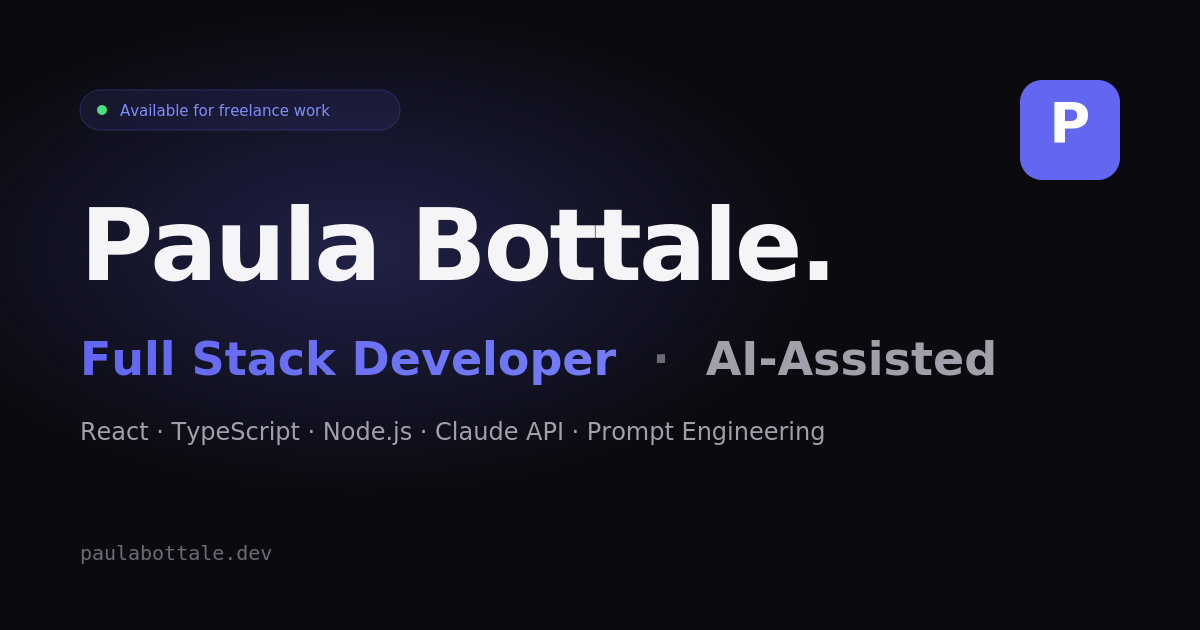
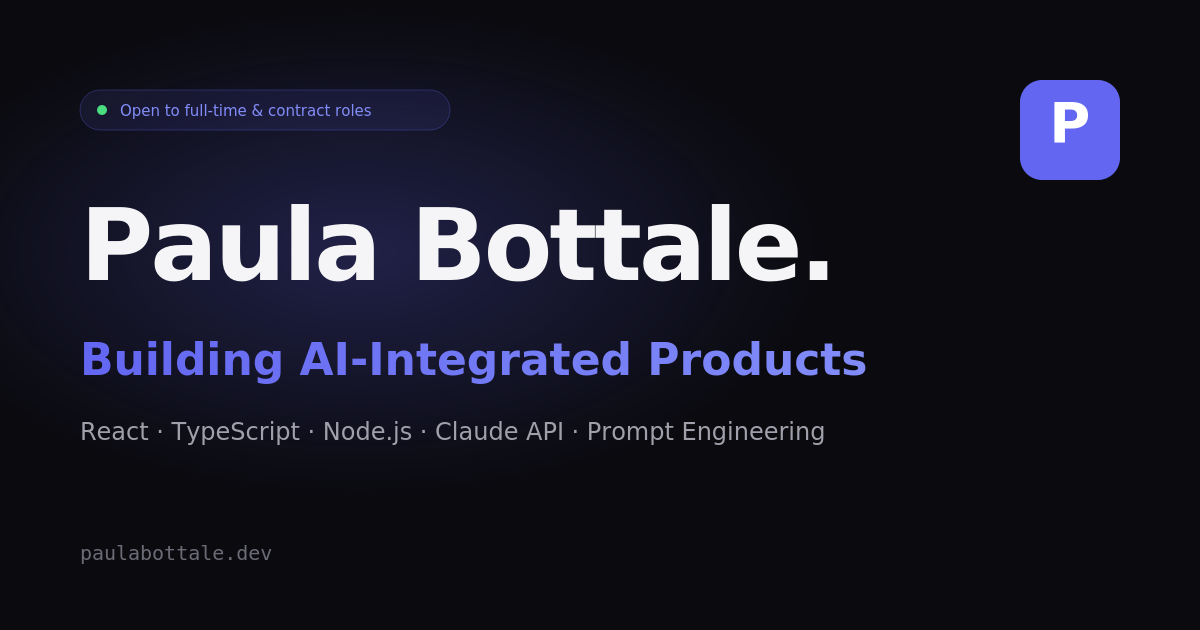
feat: rebrand portfolio

Changed region(s): [[0.0617, 0.5429, 0.8325, 0.6032], [0.0925, 0.1508, 0.3083, 0.181]]

diff --git a/index.html b/index.html
@@ -5,11 +5,11 @@
     <link rel="icon" type="image/svg+xml" href="/favicon.svg" />
     <meta name="viewport" content="width=device-width, initial-scale=1.0" />
  
-    <title>Paula Bottale — Full Stack Developer | AI-Assisted</title>
-    <meta name="title" content="Paula Bottale — Full Stack Developer | AI-Assisted" />
+    <title>Paula Bottale — Full Stack Developer | Building AI Integrated Products</title>
+    <meta name="title" content="Paula Bottale — Full Stack Developer | Building AI Integrated Products" />
     <meta
       name="description"
-      content="Full Stack Developer specializing in React, TypeScript, Node.js, and LLM integration with the Claude API. Available for freelance work and full-time roles."
+      content="Full Stack Developer specializing in React, TypeScript, Node.js, and LLM integration with the Claude API. Open to full-time & contract roles."
     />
     <meta name="author" content="Paula Bottale" />
     <meta
@@ -23,11 +23,11 @@
     <meta property="og:url" content="https://paulabottale-portfolio.vercel.app/" />
     <meta
       property="og:title"
-      content="Paula Bottale — Full Stack Developer | AI-Assisted"
+      content="Paula Bottale — Full Stack Developer | Building AI Integrated Products"
     />
     <meta
       property="og:description"
-      content="Full Stack Developer specializing in React, TypeScript, Node.js, and LLM integration with the Claude API. Available for freelance work and full-time roles."
+      content="Full Stack Developer specializing in React, TypeScript, Node.js, and LLM integration with the Claude API. Open to full-time & contract roles."
     />
 
     <meta property="og:image" content="https://paulabottale-portfolio.vercel.app/og-image.png" />
@@ -39,11 +39,11 @@
     <meta property="twitter:url" content="https://paulabottale-portfolio.vercel.app/" />
     <meta
       property="twitter:title"
-      content="Paula Bottale — Full Stack Developer | AI-Assisted"
+      content="Paula Bottale — Full Stack Developer | Building AI Integrated Products"
     />
     <meta
       property="twitter:description"
-      content="Full Stack Developer specializing in React, TypeScript, Node.js, and LLM integration with the Claude API. Available for freelance work and full-time roles."
+      content="Full Stack Developer specializing in React, TypeScript, Node.js, and LLM integration with the Claude API. Open to full-time & contract roles."
     />
  
     <link rel="preconnect" href="https://fonts.googleapis.com" />

diff --git a/src/data/projects.ts b/src/data/projects.ts
@@ -4,24 +4,12 @@ export const projects: Project[] = [
   {
     id: 'ledgr',
     title: 'Ledgr',
-    description:
-      'Multi-tenant SaaS for financial management, built from the ground up to scale. Phase 1 is live: JWT authentication with organization-based data isolation, so every record is strictly scoped to its company — the foundation that separates a real SaaS from a standard app. Backend and frontend deployed independently, allowing each to evolve on its own. Up next: financial dashboard with real-time metrics, Stripe payments with webhooks, and an AI financial agent powered by Claude (Anthropic) for natural language reporting and spending pattern detection.',
-    tech: [
-      'React',
-      'TypeScript',
-      'Node.js',
-      'Express',
-      'MongoDB',
-      'JWT',
-      'Tailwind CSS',
-      'Claude AI',
-      'Stripe',
-      'Render',
-      'Vercel',
-    ],
+    description: 'Multi-tenant SaaS for financial management, built from the ground up to scale. Phase 1 is live: full-stack authentication flow with organization-based data isolation — every record strictly scoped to its company, the foundation that separates a real SaaS from a standard app. React frontend connected to a Node.js + Express + MongoDB backend via JWT, with persistent sessions and protected routes. Backend and frontend deployed independently, allowing each to evolve on its own. Up next: financial dashboard with real-time metrics, Stripe payments with webhooks, and an AI financial agent powered by Claude (Anthropic) for natural language reporting and spending pattern detection.',
+    tech: ['React', 'TypeScript', 'Node.js', 'Express', 'MongoDB', 'JWT', 'Tailwind CSS', 'Claude AI', 'Stripe', 'Render', 'Vercel'],
+    liveDemo: 'https://ledgr-frontend-nine.vercel.app',
     github: 'https://github.com/paulabottale/ledgr-backend',
-    featured: true,
     status: 'in-development',
+    featured: true,
   },
   {
     id: 'storify',

diff --git a/src/data/personal.ts b/src/data/personal.ts
@@ -7,7 +7,7 @@ export const personalInfo = {
   location: 'Buenos Aires, Argentina',
   email: 'paulabottale.dev@gmail.com',
   about:
-    "Full Stack Developer based in Buenos Aires, Argentina. I build modern web applications with React, TypeScript, Node.js, Express, and MongoDB, with a focus on integrating AI into production features.\n\nI work with the Claude API to build LLM-powered workflows that respond to real user data, and prompt engineering is a regular part of how I design those features. Claude and GitHub Copilot are part of my daily workflow — I use them to ship faster while keeping full ownership of every line of code.\n\nEverything I build is oriented around clean architecture, type safety, and writing maintainable, scalable code that stays easy to extend over time. Open to freelance work and full-time roles.",
+    "Full Stack Developer based in Buenos Aires. I build modern web applications with React, TypeScript, Node.js, Express, and MongoDB, with a focus on integrating AI into production features.\n\nI work with the Claude API to build LLM-powered workflows that respond to real user data, and prompt engineering is a regular part of how I design those features. Claude and GitHub Copilot are part of my daily workflow — I use them to ship faster while keeping full ownership of every line of code.\n\nEverything I build is oriented around clean architecture, type safety, and writing maintainable, scalable code that stays easy to extend over time. Open to full-time & contract roles.",
 };
 
 export const stack: StackCategory[] = [
@@ -27,6 +27,6 @@ export const stack: StackCategory[] = [
 
 export const socials: SocialLink[] = [
   { name: 'GitHub', url: 'https://github.com/paulabottale' },
-  { name: 'LinkedIn', url: 'https://linkedin.com/in/paula-bottale' },
+  { name: 'LinkedIn', url: 'www.linkedin.com/in/paulabottale-dev' },
   { name: 'Email', url: 'mailto:paulabottale.dev@gmail.com' },
 ];

diff --git a/src/components/Hero/Hero.tsx b/src/components/Hero/Hero.tsx
@@ -6,7 +6,7 @@ import styles from './Hero.module.css';
 
 const ROLE_VARIANTS = [
   'Full Stack Developer',
-  'AI-Assisted Developer',
+  'AI-Integrated Developer',
   'API Builder',
   'LLM Integration Engineer',
 ];
@@ -29,7 +29,7 @@ export const Hero = () => {
       <div className={styles.container}>
         <span className={styles.badge}>
           <span className={styles.dot} />
-          Available for freelance work
+          Available for full-time & contract work.
         </span>
 
         <h1 className={styles.heading}>Paula Bottale.</h1>
